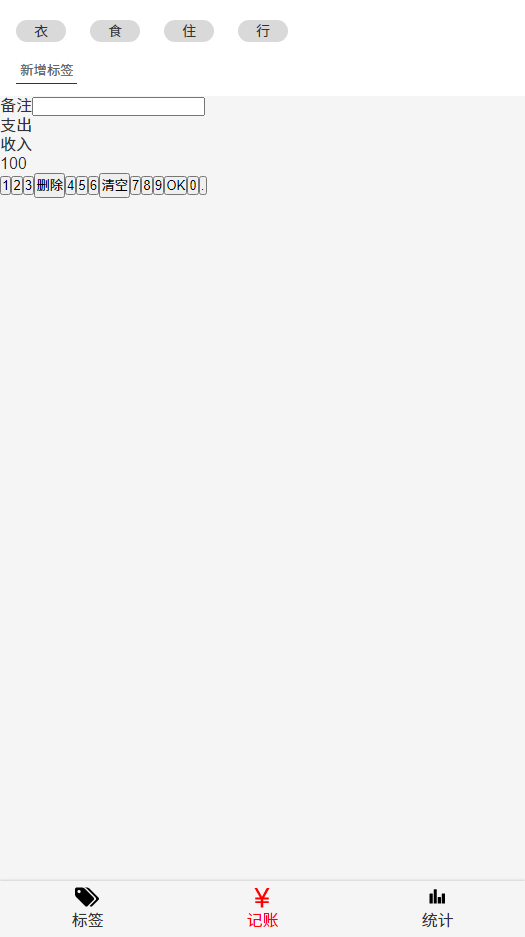
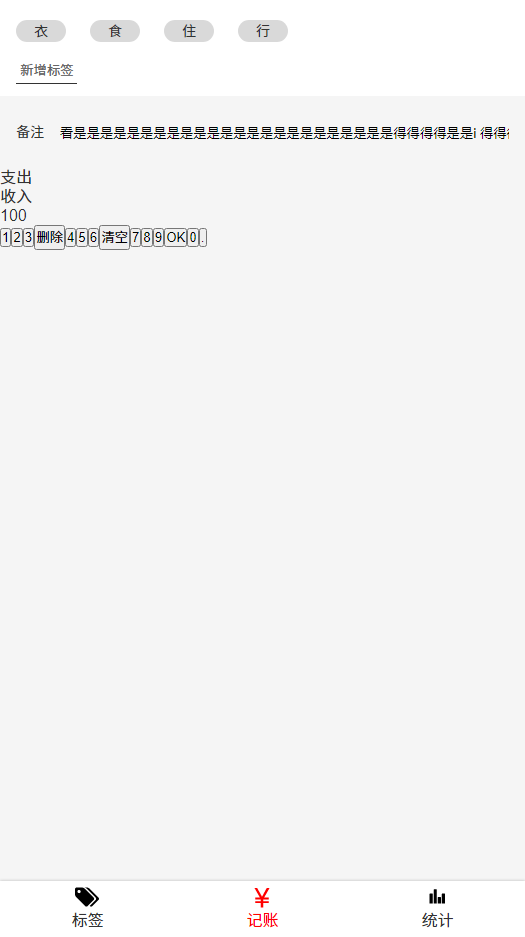
Money.tsx 之备注 UI 完成

Changed region(s): [[0.0, 0.0928, 0.3962, 0.2785], [0.1219, 0.1238, 0.9752, 0.1547]]

diff --git a/src/views/Money.tsx b/src/views/Money.tsx
@@ -30,7 +30,28 @@ const TagsSection = styled.section`
 `;
 
 const NotesSection = styled.section`
+  background: #f5f5f5;
+  padding: 0 16px;
+  font-size: 14px;
 
+  > label {
+    display: flex;
+    align-items: center;
+
+    > .x {
+      margin-right: 16px;
+      // 不换行
+      white-space: nowrap;
+    }
+
+    > input {
+      display: block;
+      width: 100%;
+      height: 72px;
+      background: none;
+      border: none;
+    }
+  }
 `;
 
 const CategorySection = styled.section`
@@ -55,8 +76,8 @@ function Money() {
       </TagsSection>
       <NotesSection>
         <label>
-          <span>备注</span>
-          <input type="text"/>
+          <span className="x">备注</span>
+          <input type="text" placeholder="在这里添加备注"/>
         </label>
       </NotesSection>
       <CategorySection>

diff --git a/src/components/Nav.tsx b/src/components/Nav.tsx
@@ -4,6 +4,7 @@ import React from 'react';
 import Icon from './Icon';
 
 const NavWrapper = styled.nav`
+  background: white;
   box-shadow: 0 0 3px rgba(0, 0, 0, 0.25);
   line-height: 24px;
 

diff --git a/src/index.scss b/src/index.scss
@@ -38,6 +38,10 @@ button {
   font-family: inherit;
 }
 
+:focus {
+  outline: none;
+}
+
 .icon {
   width: 1em;
   height: 1em;
